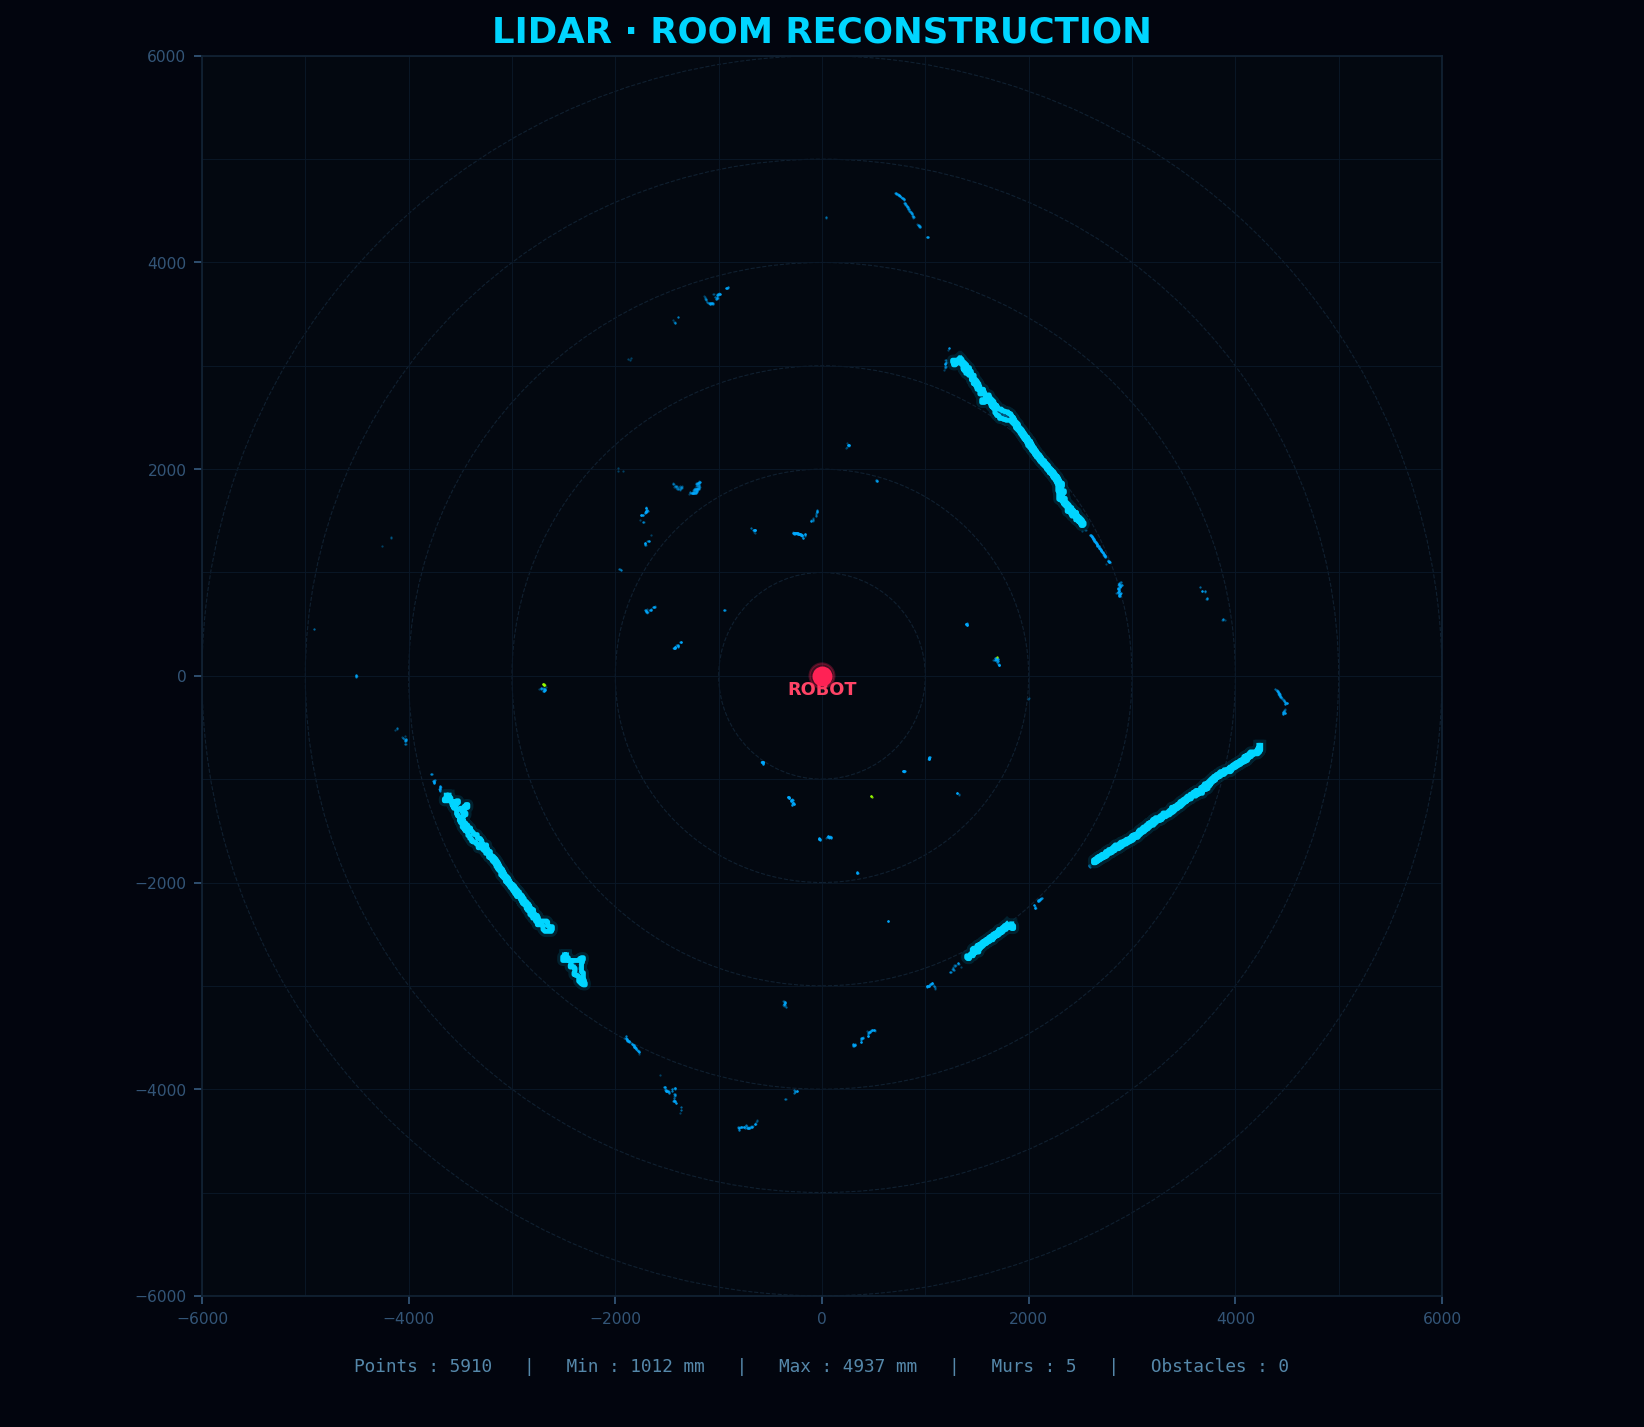
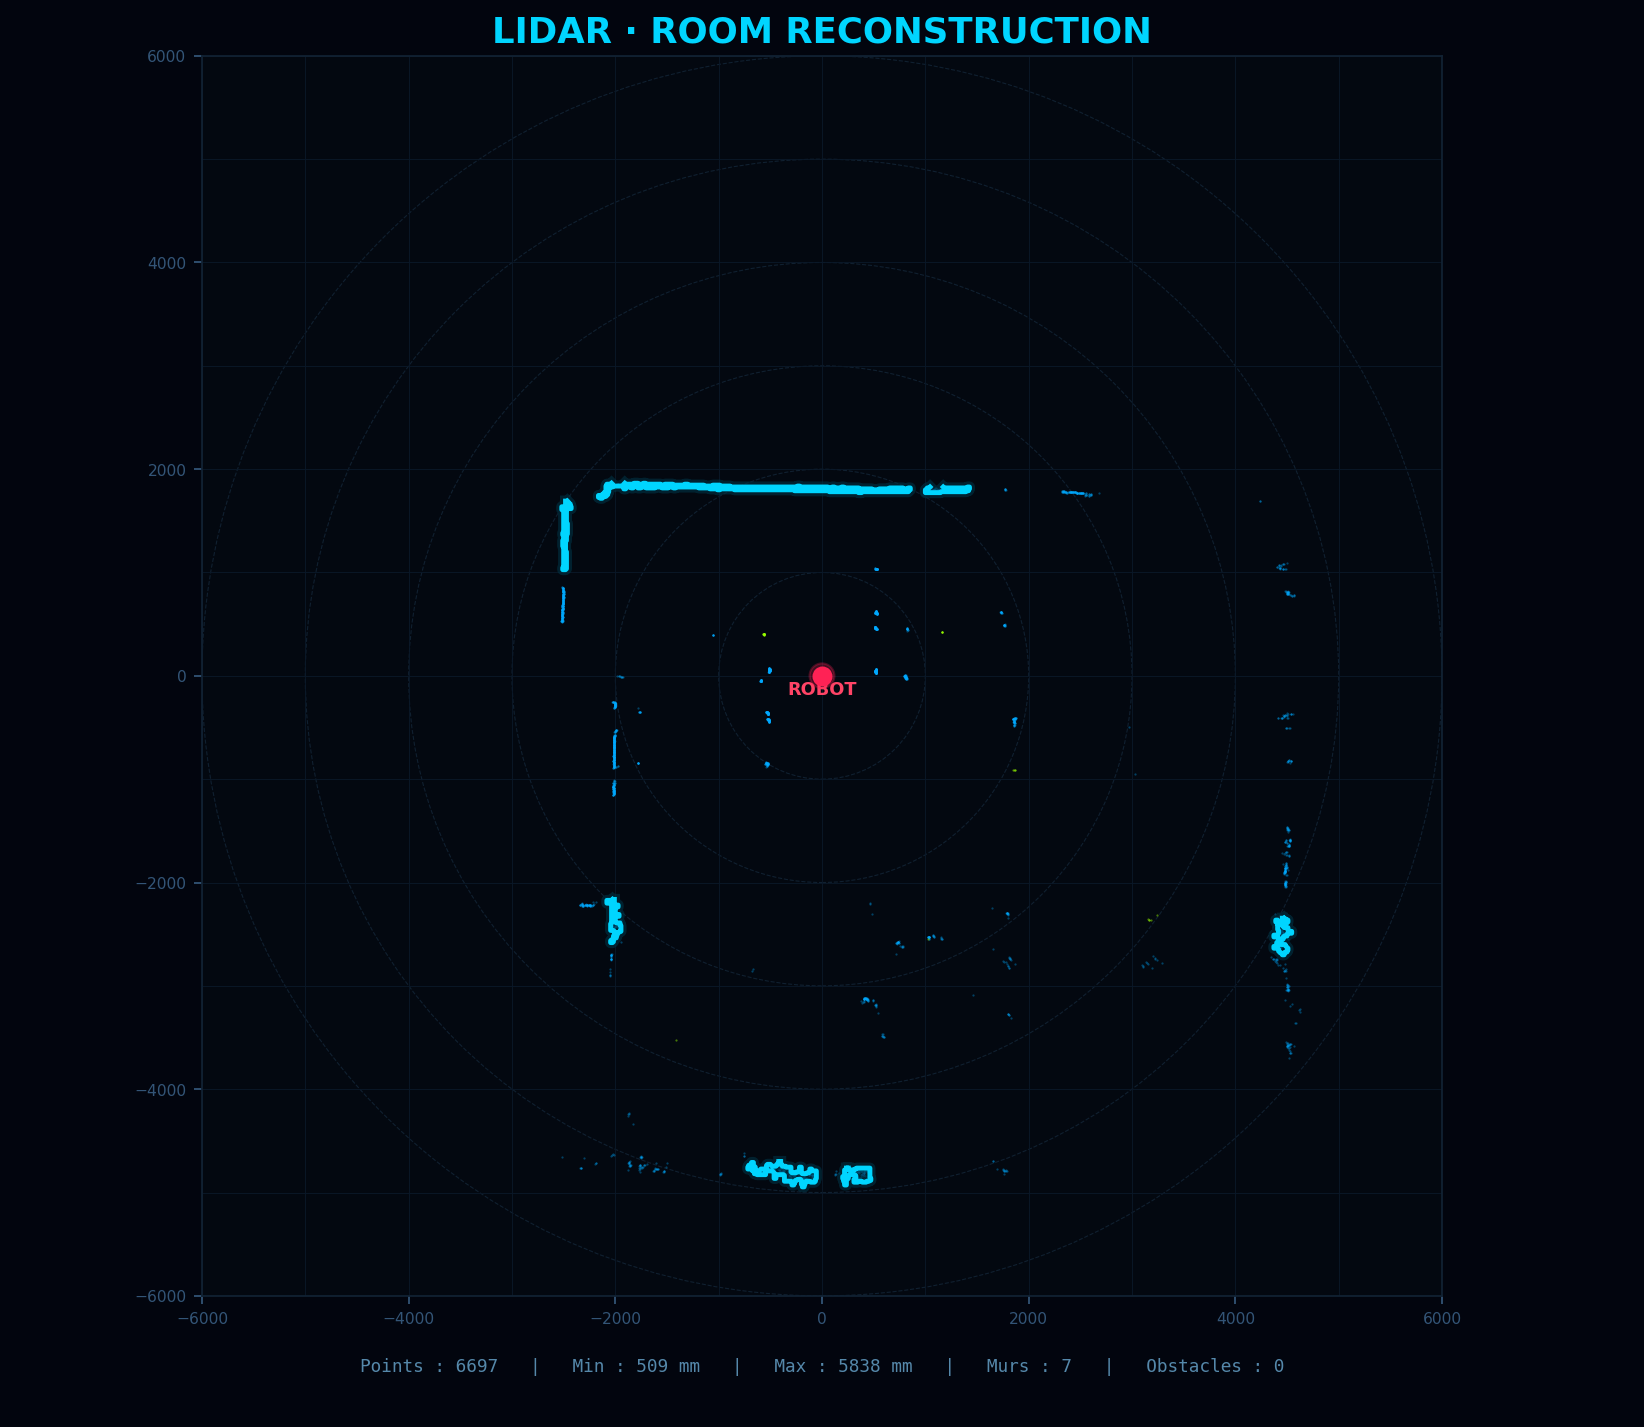
commmit du 07/05/226

diff --git a/src/main.c b/src/main.c
@@ -1,11 +1,15 @@
 /* FICHIER: main.c
  * AUTEURS: GRELET Thomas, YAHYAOUI Nidal
  * RÔLE: Point d'entrée du programme principal (intégration)
+ * MODIF: Ajout thread surveillance data/commande.txt (interface web)
  */
 
 #include <stdio.h>
 #include <stdlib.h>
 #include <string.h>
+#include <pthread.h>
+#include <unistd.h>
+#include <sys/stat.h>
 
 #include "../include/commande_vocale.h"
 #include "../include/config.h"
@@ -14,13 +18,65 @@
 #include "../include/utils.h"
 
 #define PYTHON_CMD_VOC "python3 python/assistant_vocal.py"
-#define PYTHON_SIMU "python3 python/simulation.py"
-#define PYTHON_PILOTE "python3 python/pilote_robot.py"
+#define PYTHON_SIMU    "python3 python/simulation.py"
+#define PYTHON_PILOTE  "python3 python/pilote_robot.py"
 
 /* ================= CARTOGRAPHIE LiDAR ================= */
 #define PYTHON_LIDAR ". ~/code/PFR_groupe3/venv/bin/activate && python3 python/scan_lidar.py | python3 python/display_map.py"
 /*"ssh pfr3@pfr3.local \"source ~/code/PFR_groupe3/venv/bin/activate && python ~/code/PFR_groupe3/python/scan_lidar.py\" | /opt/miniconda3/envs/pfr_lidar/bin/python python/display_map.py"
  */
+
+#define WEB_CMD_FILE "data/commande.txt"
+
+/* ================================================================
+   THREAD : surveille data/commande.txt écrit par l'interface web.
+   Quand le fichier change :
+     1. traiter_commande() → écrit dans action.txt
+     2. vide commande.txt  → ne se relance pas
+   ================================================================ */
+
+static void *surveiller_web(void *arg) {
+    (void)arg;
+
+    time_t derniere_cmd = 0;
+    struct stat st;
+
+    printf("[WEB] Thread de surveillance demarre\n");
+
+    while (1) {
+
+        if (stat(WEB_CMD_FILE, &st) == 0 && st.st_mtime > derniere_cmd) {
+            derniere_cmd = st.st_mtime;
+
+            FILE *f = fopen(WEB_CMD_FILE, "r");
+            if (f) {
+                char buf[512] = {0};
+                if (fgets(buf, sizeof(buf), f) && buf[0] != '\n' && buf[0] != '\0') {
+                    fclose(f);
+                    printf("\n[WEB] Commande recue : %s", buf);
+                    traiter_commande();  /* identique option 1 du menu */
+                    printf("[WEB] -> action.txt mis a jour\n");
+
+                    /* Vider commande.txt pour ne pas re-executer */
+                    FILE *vide = fopen(WEB_CMD_FILE, "w");
+                    if (vide) fclose(vide);
+
+                } else {
+                    fclose(f);
+                }
+            }
+        }
+
+        usleep(200000); /* vérifie toutes les 200ms */
+    }
+
+    return NULL;
+}
+
+/* ================================================================
+   MAIN
+   ================================================================ */
+
 int main(void)
 {
     int choix = 0;
@@ -40,9 +96,18 @@ int main(void)
         return 1;
     }
 
+    /* Lance le thread de surveillance interface web */
+    pthread_t thread_web;
+    if (pthread_create(&thread_web, NULL, surveiller_web, NULL) != 0) {
+        fprintf(stderr, "[ERREUR] Thread web impossible\n");
+        return 1;
+    }
+    pthread_detach(thread_web);
+
     printf("\n=========================================\n");
     printf("      SYSTEME DE COMMANDE ROBOT\n");
     printf("=========================================\n");
+    printf("[INFO] Interface web disponible en parallele\n");
 
     while (en_cours)
     {

diff --git a/server_rpi.py b/server_rpi.py
@@ -82,8 +82,7 @@ def init_camera():
     print("[CAMERA] Démarrage rpicam-vid...")
     cmd = [
         "rpicam-vid", "-t", "0", "--codec", "mjpeg",
-        "--nopreview", "--width", "640", "--height", "480",
-        "--framerate", "25", "-o", "-"
+        "--nopreview", "-o", "-"
     ]
     try:
         proc = subprocess.Popen(cmd, stdout=subprocess.PIPE, stderr=subprocess.DEVNULL)
@@ -174,13 +173,28 @@ def recevoir_signal():
         subprocess.Popen(["python3", "python/pilote_robot.py"], cwd=BASE_DIR)
         return jsonify({"statut": "ok"})
 
-    elif signal == "simulation":
-        print("[WEB] Lancement simulation (comme option 3 du menu)")
-        subprocess.Popen(["python3", "python/simulation.py"], cwd=BASE_DIR)
-        return jsonify({"statut": "ok"})
 
     return jsonify({"erreur": "signal inconnu"}), 400
 
+
+@app.route("/lidar_log")
+def lidar_log():
+    """Stream la sortie de display_map.py en temps reel."""
+    def generer():
+        cmd = ". ~/code/PFR_groupe3/venv/bin/activate && python3 python/scan_lidar.py | python3 python/display_map.py"
+        proc = subprocess.Popen(
+            cmd, shell=True, cwd=BASE_DIR,
+            stdout=subprocess.PIPE,
+            stderr=subprocess.STDOUT  # melange stdout + stderr
+        )
+        for line in iter(proc.stdout.readline, b""):
+            yield f"data: {line.decode().rstrip()}\n\n"
+        proc.wait()
+        yield "data: [TERMINE]\n\n"
+
+    return Response(generer(), mimetype="text/event-stream",
+                    headers={"Cache-Control": "no-cache",
+                             "X-Accel-Buffering": "no"})
 # ── Joystick → Arduino direct
 @app.route("/joystick", methods=["POST"])
 def joystick():
@@ -263,8 +277,27 @@ def status():
 @app.route("/reset", methods=["POST"])
 def reset():
     open(ACTION_FILE, "w").close()
+    open(ACTION_FILE, "w").close()
     envoyer_arduino("3")
     return jsonify({"statut": "reset ok"})
+
+@app.route("/carte")
+def carte():
+    """Sert la carte LiDAR sauvegardée dans data/lidar_map.png"""
+    from flask import send_file
+    carte_path = os.path.join(BASE_DIR, "data/lidar_map.png")
+    
+    cmd = (
+        ". ~/code/PFR_groupe3/venv/bin/activate && "
+        "python3 python/scan_lidar.py | "
+        "python3 python/display_map.py"
+    )
+
+    subprocess.run(cmd, shell=True, cwd=BASE_DIR)
+    
+    if not os.path.exists(carte_path):
+        return jsonify({"carte non disponible"}), 404
+    return send_file(carte_path, mimetype="image/png")
 
 # ============================================================
 # MAIN
